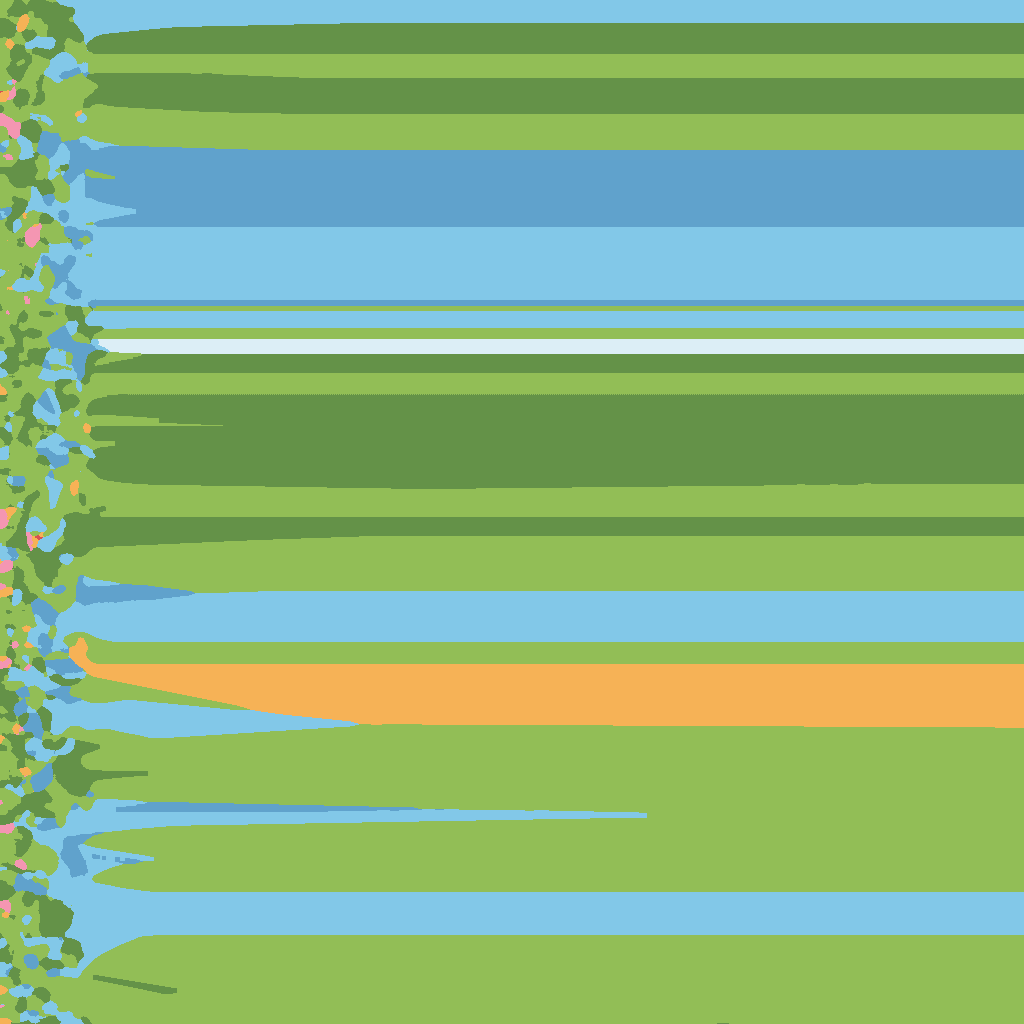
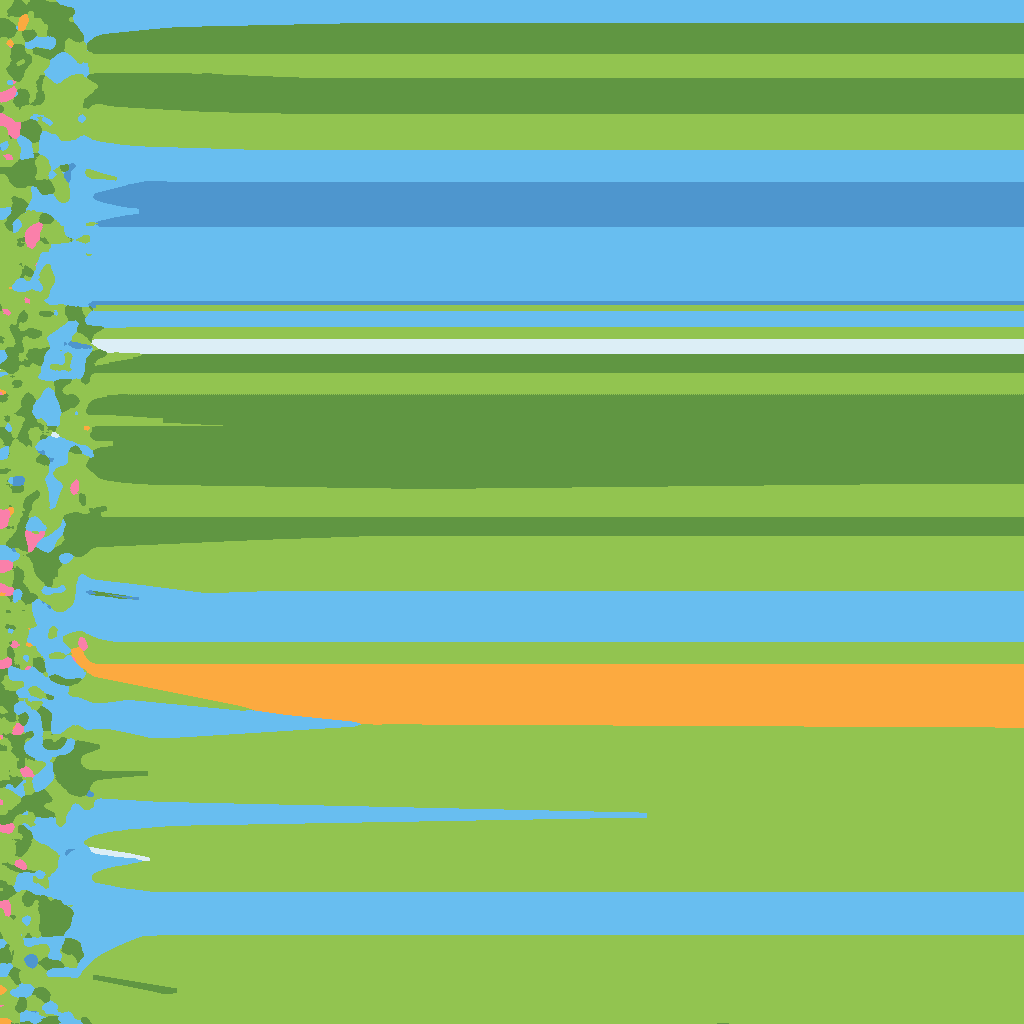
MUNDO_ENFEITES E2: o carro maior e mais saturado, a secao 10 e o registro

Changed region(s): [[0.0, 0.0, 1.0, 1.0]]

diff --git a/web/app/src/telas/pet/ilha/modelos.ts b/web/app/src/telas/pet/ilha/modelos.ts
@@ -51,8 +51,9 @@ export type NomeItem = keyof typeof ITENS_MODELOS;
    ilha); a altura e a de um poste na escala do pet (o pet tem cerca de 1 celula). PROPOSTO, SEM FONTE */
 export const ENFEITES_MODELOS = {
   poste: { arquivos: ["poste/poste.gltf"], altura: 3.0, vento: 0, sombra: 0.4, baixo: false },
-  /* o carro: a caminhonete com o jardim na cacamba, gerada pela Meshy (E2); a altura de um carrinho na escala do pet */
-  carro: { arquivos: ["carro/carro.gltf"], altura: 1.3, vento: 0, sombra: 1.3, baixo: false },
+  /* o carro: a caminhonete com o jardim na cacamba, gerada pela Meshy (E2); maior que um carro na escala do pet, como um brinquedo, para
+     ser visto na beira do plato (o revisor achou 1,3 pequeno demais) */
+  carro: { arquivos: ["carro/carro.gltf"], altura: 1.9, vento: 0, sombra: 1.3, baixo: false },
 } as const satisfies Record<string, Modelo>;
 export type NomeEnfeite = keyof typeof ENFEITES_MODELOS;
 /** a mascara das partes que acendem a noite (o emissiveMap; fora do glTF, ao lado dele), por enfeite que tem luz */

diff --git a/web/app/src/telas/config/TelaConfig.tsx b/web/app/src/telas/config/TelaConfig.tsx
@@ -205,7 +205,7 @@ function Sobre() {
           fica fora do repositório; sem ele, o jogo usa os sprites de reserva, de arte própria.</p>
         {/* os kits 3D da ilha (docs/TAREFA_V3_HABITAT_ILHA_3D.md, H1 e H-1): CC0, com as licencas em public/kits3d/ */}
         <p className="mc-credito-kits">As árvores, as plantas e as pedras da ilha são dos kits 3D de Quaternius (Stylized Nature MegaKit) e de Kay
-          Lousberg (KayKit Forest Nature Pack), em domínio público (CC0). A bola, o saco de pancada, o kit médico, o cocô e os postes de luz foram gerados com a Meshy (meshy.ai) e consertados no Blender.</p></section>
+          Lousberg (KayKit Forest Nature Pack), em domínio público (CC0). A bola, o saco de pancada, o kit médico, o cocô, os postes de luz e o carro foram gerados com a Meshy (meshy.ai) e consertados no Blender.</p></section>
     </>
   );
 }

diff --git a/web/app/src/telas/pet/ilha/constantes.ts b/web/app/src/telas/pet/ilha/constantes.ts
@@ -82,7 +82,7 @@ export const COCO = { raio: 0.85, passo: 0.25, surgirMs: 380 } as const;
 export const ENFEITES_GRADE = {
   sal: 0x5e7e17e5, tentativas: 4000,
   poste: { quantos: 14, perto: 1.5, longe: 4, entreSi: 4, deAlto: 2, folga: 0, norte: false, casa: 0 },
-  carro: { quantos: 1, perto: 2, longe: 5, entreSi: 3, deAlto: 2, folga: 1, norte: true, casa: 12 },
+  carro: { quantos: 1, perto: 1.5, longe: 3, entreSi: 3, deAlto: 2, folga: 1, norte: true, casa: 12 },
 } as const;
 /** a luz dos enfeites a noite (enfeites.ts): o halo na lanterna, na fracao `altura` da altura do modelo, com `tamanho` celulas de
     diametro, em cascas (as fracoes do tamanho) de opacidade `forca` cada (aditiva), e o quanto os vidros brilham (emissiveIntensity).

diff --git a/docs/TAREFA_V3_MUNDO_ENFEITES.md b/docs/TAREFA_V3_MUNDO_ENFEITES.md
@@ -168,3 +168,26 @@ com o pet). E-G11: o revisor (um subagente Sonnet que só viu o concept e as cap
 
 **Fora:** os marcos (E2 e E3); o fps no desktop e no celular.
 
+## 10. E2: o carro abandonado (2026-11-06, Gerente, Claude Code, Opus 5.5, branch `v3-mundo-enfeites-e2`)
+
+**O carro, pela Meshy:** quatro concepts (24 créditos); o Matheus escolheu o 3, a caminhonete azul-céu com um jardim na caçamba (a van
+lembrava demais um modelo real). Vistas (6) e malha (30): 1 946 triângulos (teto 2 414 dos marcos), a forma do concept; as flores da
+caçamba viraram pétalas pontudas, que ainda se leem como jardim. Saldo 800 → 740 (`docs/enfeites/carro/`). O conserto
+(`consertar_carro.py`): a malha fica; a cor chapada em oito cores (`paleta.json`), uma por face, com uma rodada pelos vizinhos.
+
+**O lugar dos marcos (a grade):** `ENFEITES_GRADE` passou a ter os números por enfeite; os postes vêm primeiro e saem iguais aos da E1.
+O carro fica só ao norte da área (o lado que a câmera da tela Pet vê), a até 12 células do ninho em x (onde a câmera mais fica), entre 1,5
+e 3 células da área, em chão plano com folga de 1 célula, a 2 das coisas altas e a 3 dos postes (a distância é a de quem chega; com 6, os
+postes do norte não deixavam lugar). Os marcos do norte são sorteados só na faixa (pela grade inteira, quase nenhum sorteio caía nela), com
+até 4 000 tentativas. Os do motor: mvp (10,4; −1,8) e padrão (4,5; −1,5). Os enfeites sem luz não usam a lanterna para o giro: a frente do
+glTF (+z) vira para a área, e a caminhonete mostra o lado com o jardim.
+
+**O caminho até o lugar:** primeiro, sorteado na moldura inteira, o carro caiu em x = 33, longe da casa; depois, a 2 a 5 células da área,
+ficou no platô atrás do barranco e de um tronco, pálido pela névoa; a 1,5 a 3 células, aparece inteiro na beira do platô.
+
+**Os gates:** E-G0 e E-G10 passam (com o norte e a casa no teste); E-G1 a E-G8 num teste (1 946 triângulos, 1024 px, 0 erros e 0 avisos no
+validador, cerca de 180 KB); E-G9: um draw call a mais, de dia e de noite (78 → 79 e 100 → 101 em 390; 85 → 86 e 106 → 107 em 1280;
+`D:\Trab\digilab\capturas_enfeites\referencia_e2\` e `\carro\`). E-G11: o revisor (um subagente Sonnet que só viu o concept e as
+capturas) **aprovou com ressalva**: pequeno e distante demais em 390 e à noite, o azul pouco saturado; o conserto foi o dele, a altura de
+1,3 para 1,9 e a paleta mais saturada (rodada 2), e as capturas refeitas. À noite ele escurece com a cena, como o resto da moldura.
+

diff --git a/docs/registro/2026-11.md b/docs/registro/2026-11.md
@@ -1218,3 +1218,14 @@ byte, e a leitura é a linha 2 (a guarda falha). O resultado está em `docs/RESU
   101, 202, 404; 4 dias), com seis resumos escritos à mão por vida (derrota com dor, empate sem dor, derrota que passa de S e é cortada, vitória com pouca dor, mais duas
   derrotas) inseridos entre os avanços do log e rejogados no Python com a `ConfigLutaCorpo` e a `ConfigLutaMemoria` ligadas. Não são vidas de pesquisa e nenhuma faixa
   de sementes é reservada. Nenhum arquivo de gabarito de hoje foi tocado.
+
+## 2026-11-06 — MUNDO_ENFEITES, E2: o carro (Gerente da frente, Claude Code, Opus 5.5, branch `v3-mundo-enfeites-e2`)
+
+- **D-EN-9, os marcos ao norte e perto da casa (números escolhidos).** O carro: norte, até 12 células do ninho em x, entre 1,5 e 3 células
+  da área, folga 1, a 2 das coisas altas e a 3 dos postes, até 4 000 tentativas (`ENFEITES_GRADE.carro`), PROPOSTO. A seção 4.3 da tarefa
+  dizia "a 2 a 5 células" e "a 6 um do outro": a 2 a 5 o carro ficava atrás do barranco, e a 6 os postes não deixavam lugar.
+- **D-EN-10, a distância entre enfeites é a de quem chega (forma).** Os postes, postos antes, saem iguais aos da E1; o teste confere cada
+  enfeite contra os anteriores.
+- **D-EN-11, o carro a 1,9 e a paleta mais saturada (números escolhidos, depois do revisor).** Era 1,3; PROPOSTO, SEM FONTE.
+- **D-EN-12, o giro pela lanterna só no que tem luz (forma).** Sem luz, a frente do glTF vira para a área.
+

diff --git a/docs/REGISTRO_DESVIOS.md b/docs/REGISTRO_DESVIOS.md
@@ -530,3 +530,4 @@ de base em `docs/historico/registro_lotes.json`.
 - [2026-11-06 — MUNDO_ENFEITES, a tarefa (Gerente da frente, Claude Code, Opus 5.5, worktree `v3-mundo-enfeites`)](registro/2026-11.md)
 - [2026-11-06 — MUNDO_ENFEITES, E1: os postes (Gerente da frente, Claude Code, Opus 5.5, branch `v3-mundo-enfeites-e1`)](registro/2026-11.md)
 - [2026-11-06 — PONTE_LUTA, etapa PE3, o espelho TS da dor e da luta como episódio, a marca `pl` e o `_lutar` com o resumo (worker, Claude Code, Sonnet 5.5, branch `v3-ponte-luta-pe3`)](registro/2026-11.md)
+- [2026-11-06 — MUNDO_ENFEITES, E2: o carro (Gerente da frente, Claude Code, Opus 5.5, branch `v3-mundo-enfeites-e2`)](registro/2026-11.md)
